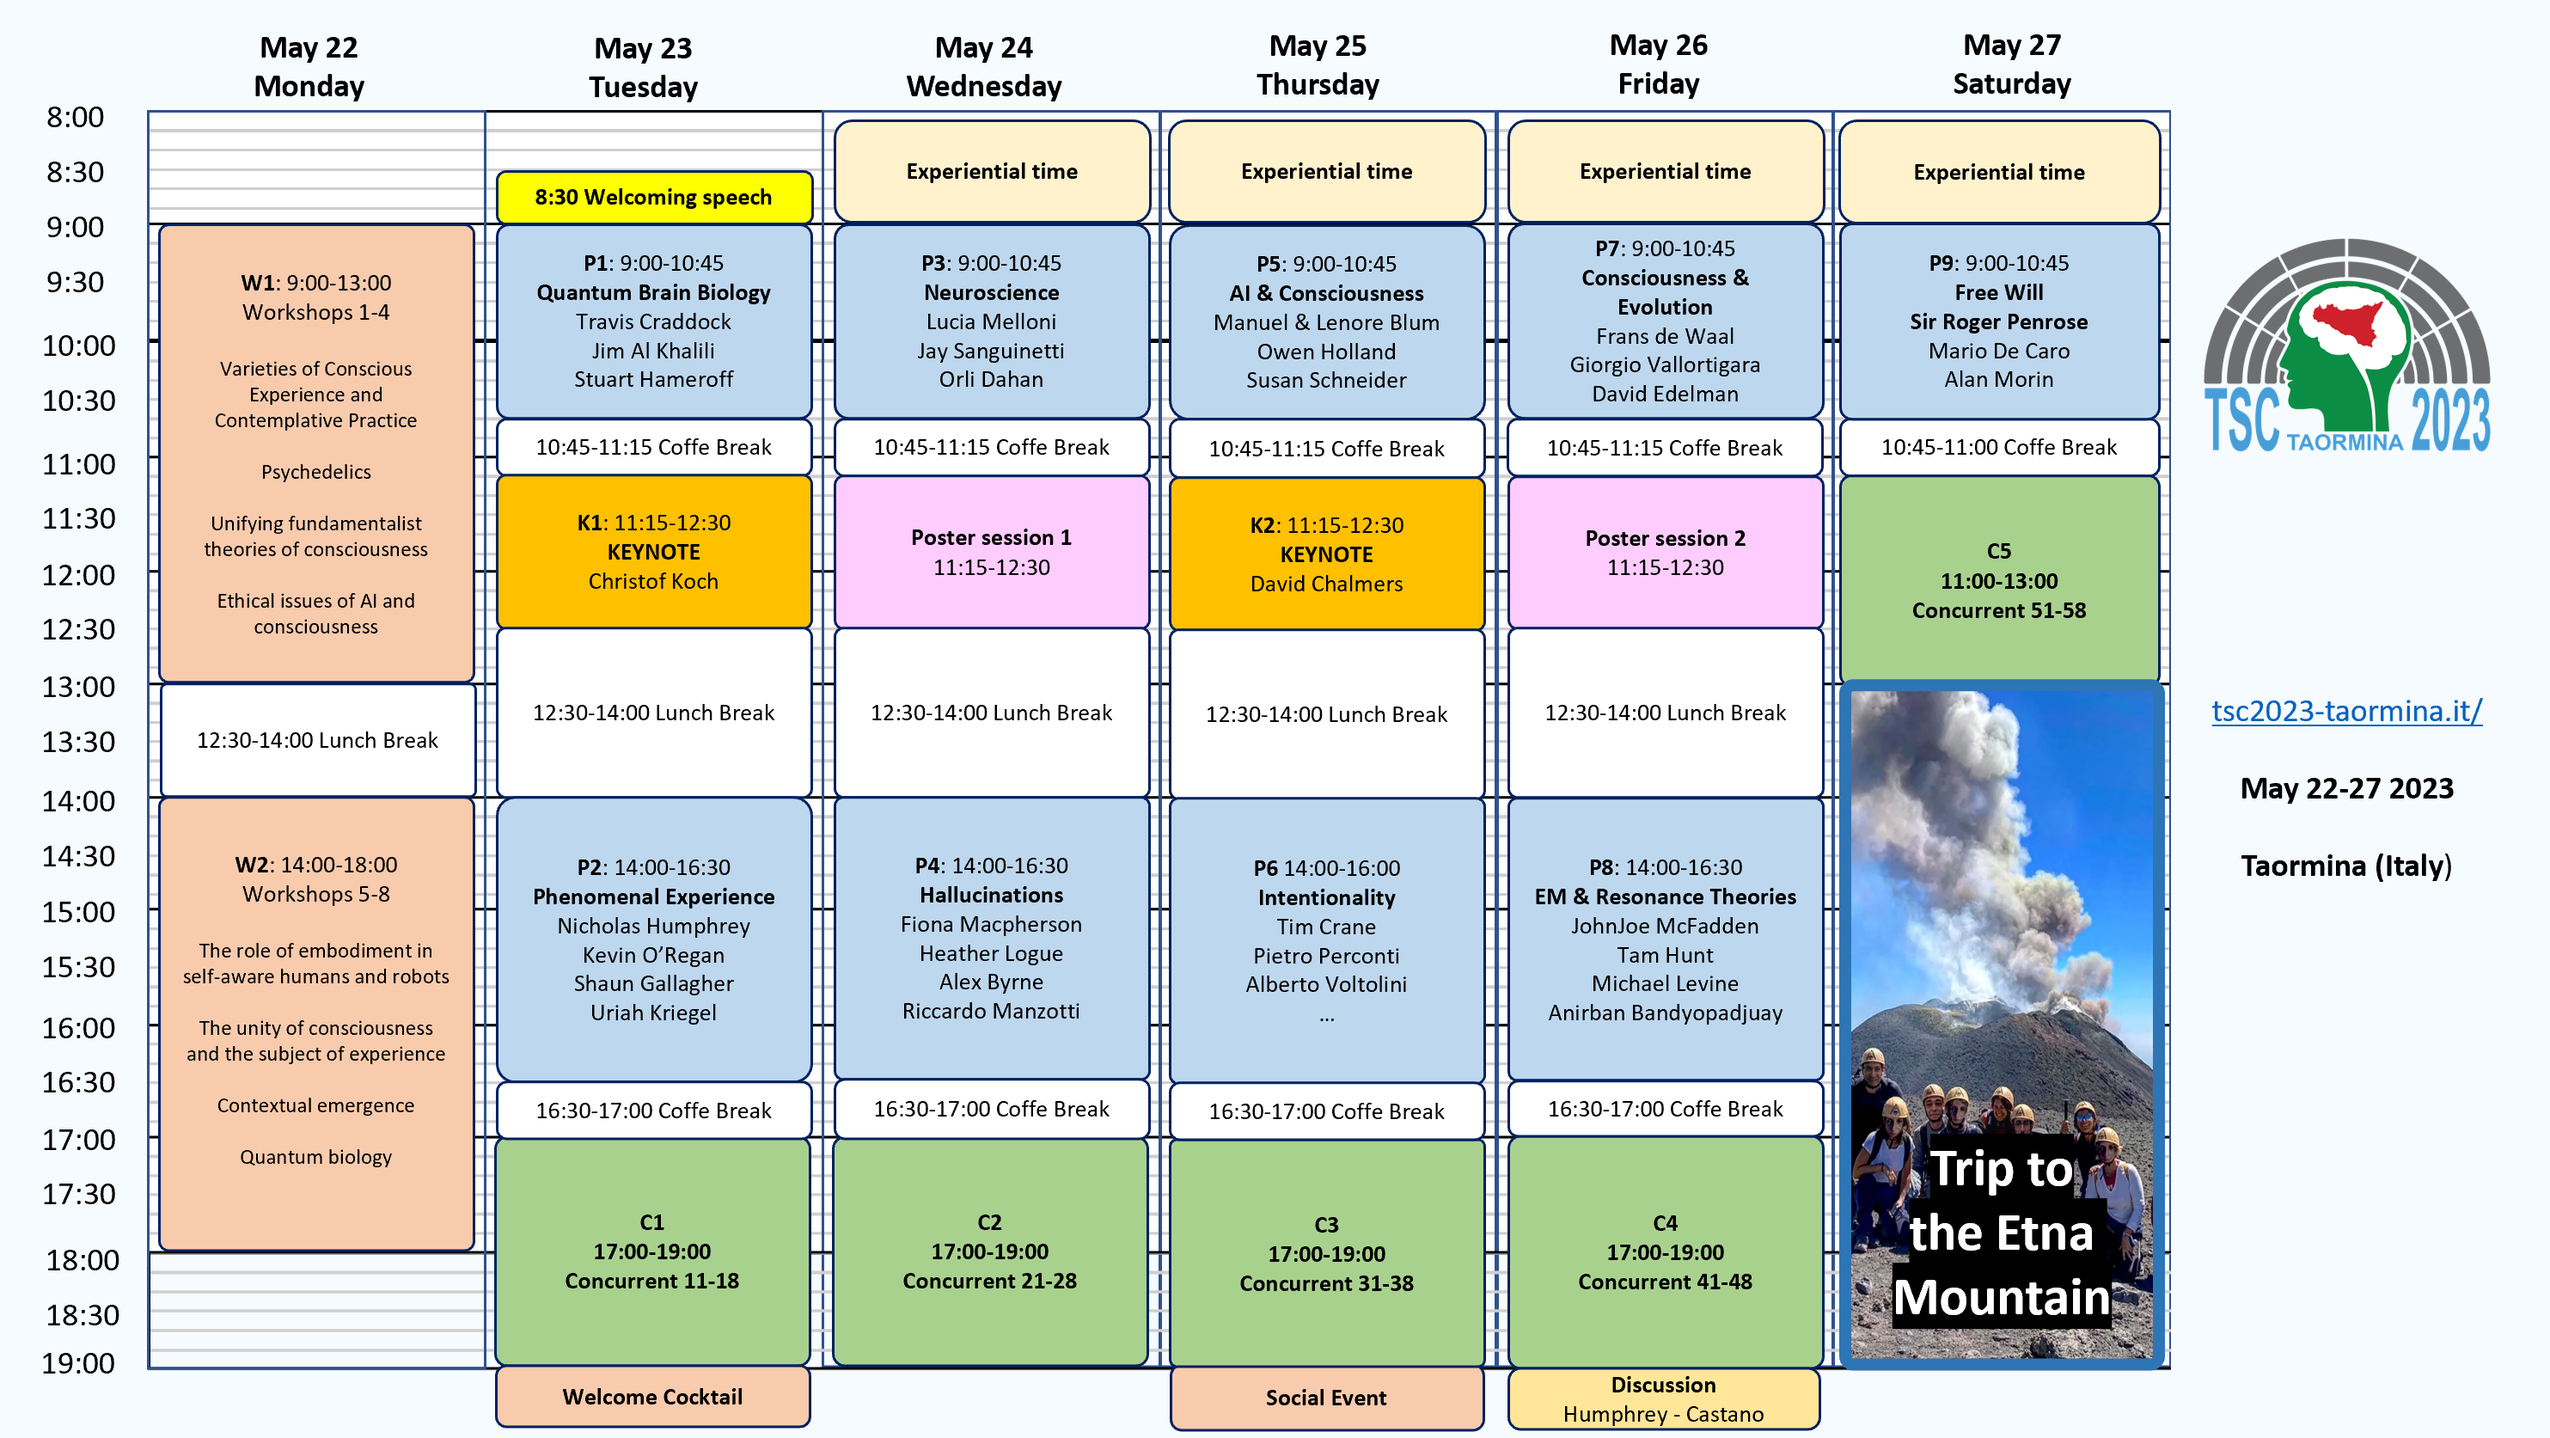
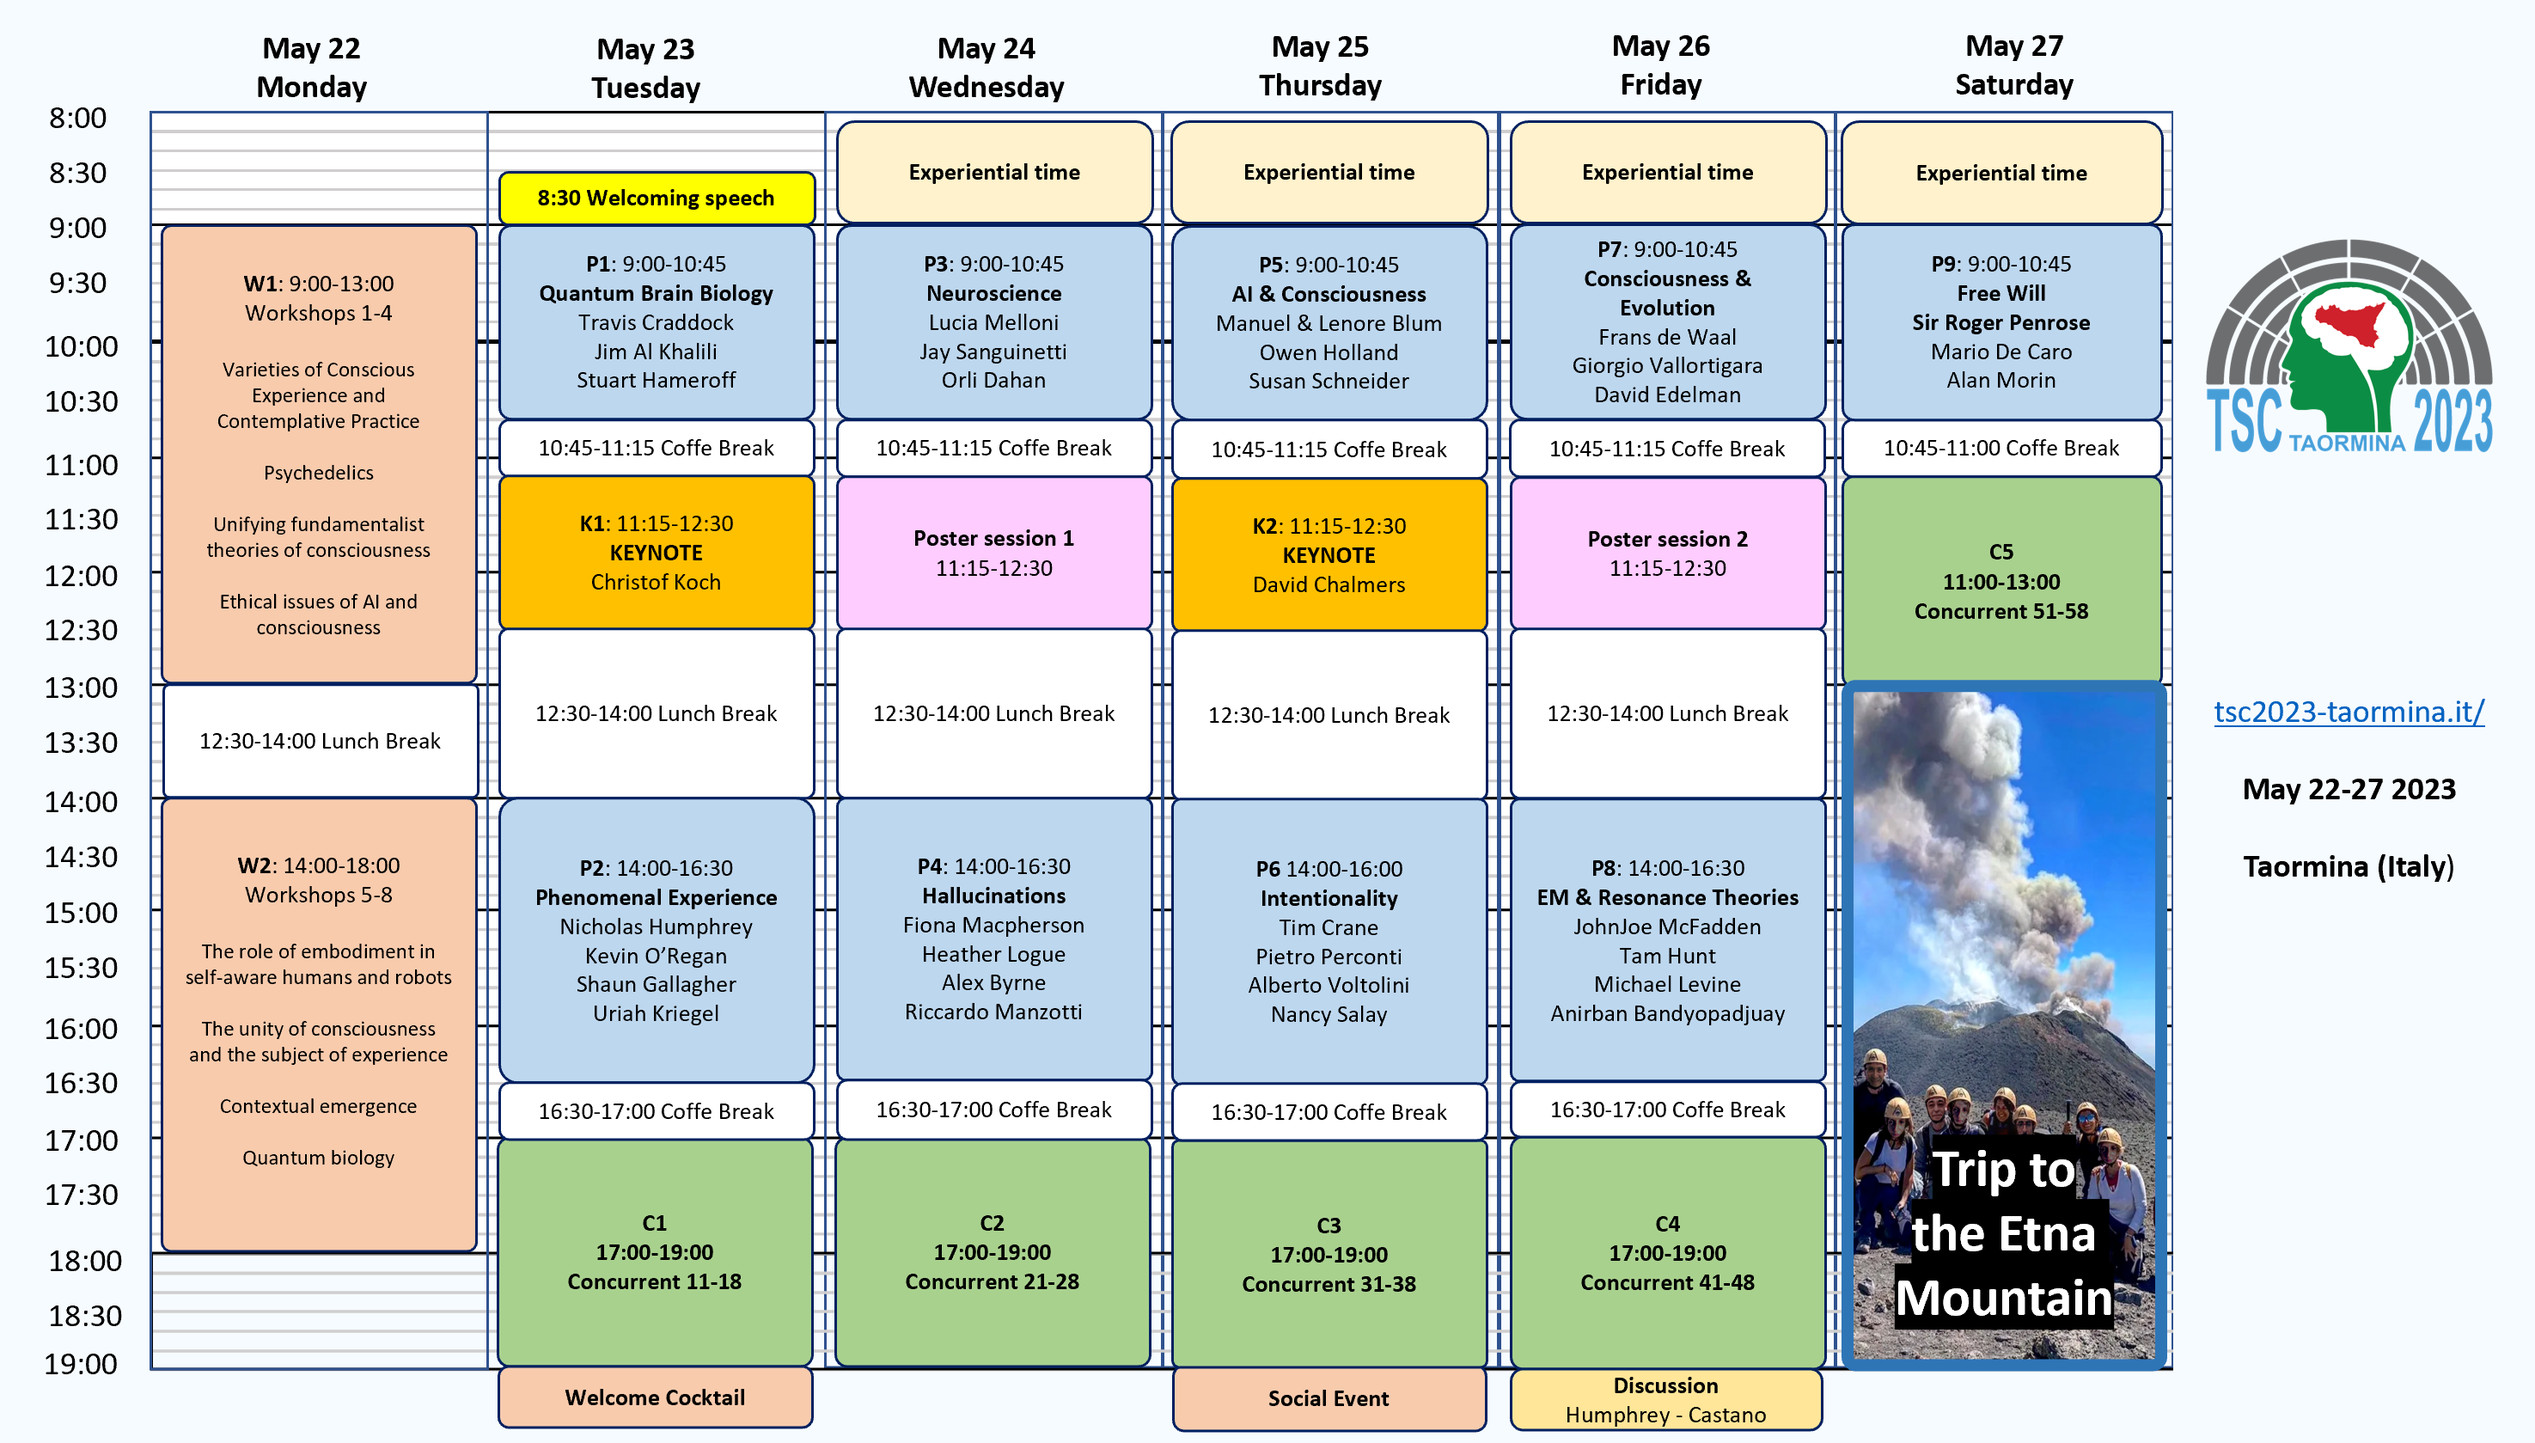
new program

Changed region(s): [[0.0, 0.0, 0.998, 1.0], [0.2183, 0.0311, 0.2807, 0.0932], [0.0936, 0.0311, 0.1559, 0.0932]]

diff --git a/program.html b/program.html
@@ -115,7 +115,7 @@ License URL: http://creativecommons.org/licenses/by/3.0/
 					Manuel &amp; Lenore Blum - Owen Holland - Susan Schneider
 					<br><br>
 					<strong>P6: Intentionality</strong><br>
-					Tim Crane - Pietro Perconti - Alberto Voltolini
+					Tim Crane - Pietro Perconti - Alberto Voltolini - Nancy Salay
 					<br><br>
 					<strong>P7: Conscious & Evolution</strong><br>
 					Frans de Waal - Giorgio Vallortigara - David Edelman
